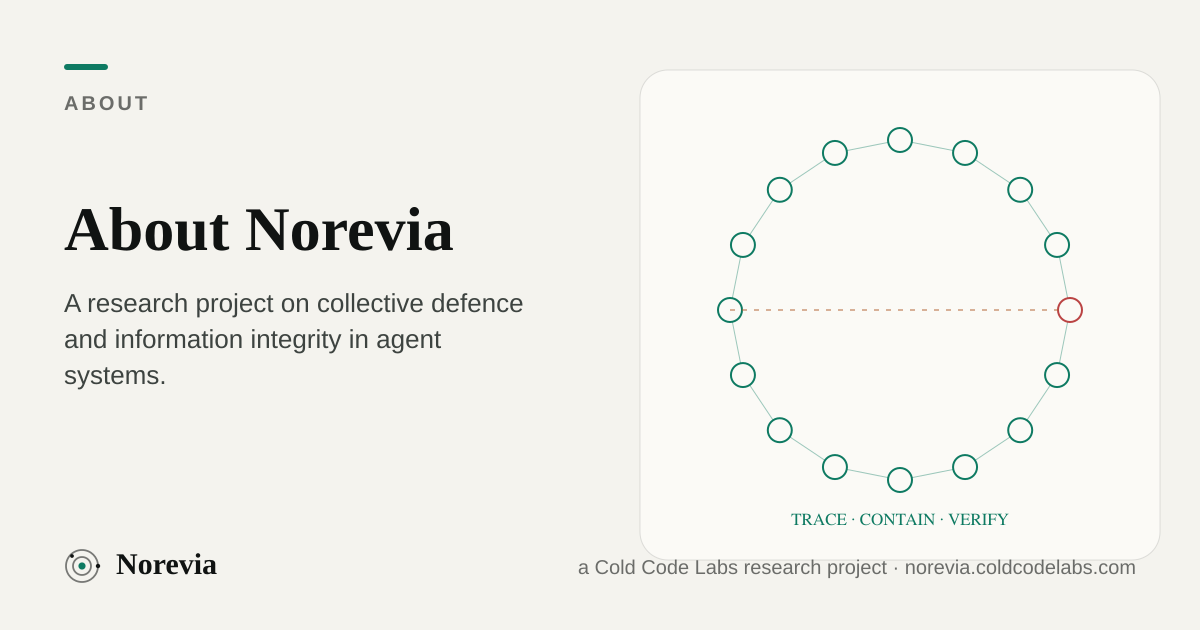
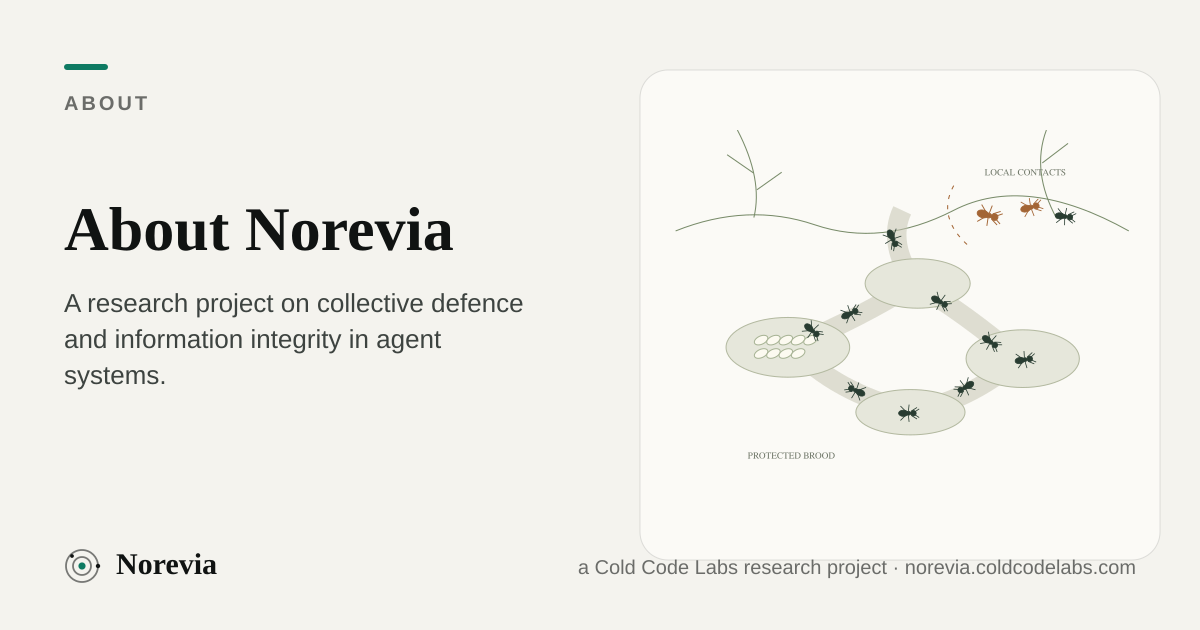
Restore living colonies as the visual and scientific starting point

diff --git a/site/src/home.css b/site/src/home.css
@@ -333,3 +333,68 @@ a.sp-tag:hover { text-decoration: underline; }
  .hero-foot .made { max-width:15em; text-align:right; }
 }
 @media(prefers-reduced-motion:reduce) { .stage { transition:none; } }
+
+/* Nature is the starting point; diagrams below are original schematic art. */
+.hero-ecology { position:absolute; width:min(53vw,740px); left:49%; top:48%; transform:translateY(-50%); pointer-events:none; }
+.nature-plate { display:block; width:100%; height:auto; overflow:visible; }
+.nature-plate .soil-line { fill:none; stroke:#788b69; stroke-width:2; }
+.nature-plate .root-line { fill:none; stroke:#a2af8e; stroke-width:1.4; }
+.nature-plate .tunnel { fill:none; stroke:#c6c5b3; stroke-width:19; stroke-linecap:round; opacity:.55; }
+.nature-plate .chamber { fill:#e6e7db; stroke:#b3b9a0; stroke-width:1.2; }
+.nature-plate .nursery { fill:#e1e9d9; }
+.nature-plate .brood { fill:#fcfaf0; stroke:#a7b394; stroke-width:1; }
+.nature-plate .nature-ant { fill:#283c31; stroke:#283c31; stroke-width:1.1; stroke-linecap:round; }
+.nature-plate .exposed-ant { fill:#a36535; stroke:#a36535; }
+.nature-plate .boundary { fill:none; stroke:#a36535; stroke-width:1.5; stroke-dasharray:4 6; }
+.nature-plate text { fill:#6d7566; font:9px monospace; letter-spacing:1.2px; }
+.nature-plate .ant-motion { animation:colony-step 4s ease-in-out infinite; animation-delay:var(--delay); }
+@keyframes colony-step { 0%,100% { transform:translateX(-4px); } 50% { transform:translateX(4px); } }
+.nature-plate .honeycomb { fill:#eee5c9; stroke:#d6c59a; stroke-width:1.2; }
+.nature-plate .nature-bee { fill:none; stroke:#3e4938; stroke-width:1.5; }
+.nature-plate .wing { fill:#fafbf4; stroke:#a9b6a3; }
+.nature-plate .bee-body { fill:#d6ac55; }
+.nature-plate .bee-stripe { stroke:#454330; stroke-width:4; }
+.nature-plate .bee-head { fill:#454330; }
+.nature-plate .signal-wave { fill:none; stroke:#a36535; stroke-width:2; animation:signal-breathe 3s ease-in-out infinite; }
+@keyframes signal-breathe { 50% { opacity:.3; } }
+.nature-plate .inhibit { fill:none; stroke:#799073; stroke-width:1.5; stroke-dasharray:4 5; }
+.nature-plate .stop-mark { stroke:#a36535; stroke-width:3; }
+.nature-plate .affected-brood { fill:#e2b88e; stroke:#a36535; stroke-width:1.4; }
+.nature-plate .spore { fill:#a36535; }
+.bio-origins { background:#ebeee3; }
+.bio-heading { display:grid; grid-template-columns:1.15fr 1fr; gap:3rem; align-items:end; margin-bottom:3.5rem; }
+.bio-heading h2 { max-width:13ch; }
+.bio-grid { display:grid; grid-template-columns:repeat(3,minmax(0,1fr)); gap:1.3rem; align-items:start; }
+.bio-card { min-width:0; padding:1.5rem; background:#f8f7f1; border:1px solid #d6ddca; border-radius:22px; }
+.bio-art { margin:-.5rem -.5rem 1.5rem; }
+.bio-card .kicker { font-size:.62rem; letter-spacing:.09em; margin-bottom:.9rem; }
+.bio-card h3 { font-size:clamp(1.55rem,2vw,2rem); line-height:1.13; letter-spacing:-.02em; }
+.bio-card p { font-size:.96rem; line-height:1.65; color:var(--ink2); }
+.bio-label { display:block; color:var(--accent); font:500 .63rem/1.5 var(--mono); text-transform:uppercase; letter-spacing:.1em; margin-bottom:.45rem; }
+.bio-card details { border-top:1px solid var(--line); padding-top:1rem; margin-top:1.5rem; }
+.bio-card summary { cursor:pointer; font-size:.85rem; font-weight:600; line-height:1.5; }
+.bio-card summary:focus-visible { outline:2px solid var(--accent); outline-offset:5px; }
+.bio-card .bio-fold { padding-top:.6rem; }
+.bio-fold a,.bio-source { font-size:.76rem; line-height:1.6; }
+.bio-source { display:block; margin-top:1.5rem; color:var(--ink2); }
+.bio-evidence-note { margin:2rem 0 0; max-width:90ch; color:var(--muted); font-size:.82rem; line-height:1.65; }
+.stage-ecology { position:absolute; width:48%; left:50%; top:50%; transform:translateY(-50%); padding-right:3rem; }
+.stage-ecology [hidden] { display:none; }
+.stage-ecology .nature-plate text { fill:#adbba3; }
+.stage-ecology .nature-plate .soil-line,.stage-ecology .nature-plate .root-line { stroke:#8f9e78; }
+.stage-ecology .nature-plate .nature-ant { fill:#bfd8b5; stroke:#bfd8b5; }
+.stage-ecology .nature-plate .chamber { fill:#26372d; stroke:#617d62; }
+.stage-ecology .nature-plate .tunnel { stroke:#3b4d3d; }
+.stage-ecology .nature-plate .honeycomb { fill:#343929; stroke:#727957; }
+@media(max-width:1000px) { .bio-grid { gap:.8rem; } .bio-card { padding:1rem; } }
+@media(max-width:860px) {
+ .hero-ecology { width:340px; max-width:94%; left:50%; top:70px; transform:translateX(-50%); }
+ .hero-in { padding-top:310px; }
+ .bio-heading,.bio-grid { grid-template-columns:1fr; gap:1.5rem; }
+ .bio-heading h2 { max-width:16ch; }
+ .bio-card { padding:1.5rem; }
+ .bio-art { max-width:440px; margin:0 auto 1rem; }
+ .stage-ecology { width:100%; left:0; top:auto; bottom:2rem; transform:none; padding:0 1rem; }
+ .stage-ecology .nature-plate { max-height:330px; }
+}
+@media(prefers-reduced-motion:reduce) { .nature-plate .ant-motion,.nature-plate .signal-wave { animation:none; } }

diff --git a/site/src/js/home.js b/site/src/js/home.js
@@ -10,6 +10,7 @@
   const stageRoot = document.querySelector('[data-stages]');
   function selectStage(n) {
     phase=n;
+    stageRoot?.querySelectorAll('[data-stage-illustration]').forEach((el,i)=>{el.hidden=i!==n;});
     stageRoot?.querySelectorAll('.stage').forEach((el,i)=> {el.classList.toggle('on',i===n);el.setAttribute('aria-hidden',String(i!==n));});
     stageRoot?.querySelectorAll('[data-stage]').forEach((el,i)=>el.setAttribute('aria-pressed',String(i===n)));
     const count=stageRoot?.querySelector('.stage-count'); if(count) count.textContent=`0${n+1} / 04 · Illustrative policy`;

diff --git a/docs/DEFENCE-PIVOT.md b/docs/DEFENCE-PIVOT.md
@@ -23,3 +23,7 @@ The landing-page sketch has 16 ring nodes and four cross-links. A step copies th
 ## Verification
 
 Run `node site/build.mjs`. The generator checks card IDs, relations, evidence and journal numbers. Two historical Observatory support documents without card frontmatter are intentionally reported and skipped. Check the landing interaction in desktop/mobile with reduced motion, and verify relevance filters operate on both graph and list. No model API calls are needed to build or interact with this site.
+
+## Nature-first presentation
+
+The landing page begins with a schematic ant colony and three source-linked biological mechanisms: contact-network plasticity (Stroeymeyt 2018), honeybee stop signals (Tan 2016, with its figure-quality correction), and destructive brood disinfection (Pull 2018). Each pairs the named-species observation with an expandable engineering hypothesis and refutation test. The agent-network sketch follows these observations. Drawings are illustrations, not biological simulations, and recovery remains an engineering question. Blockchain is not introduced as a core mechanism.
